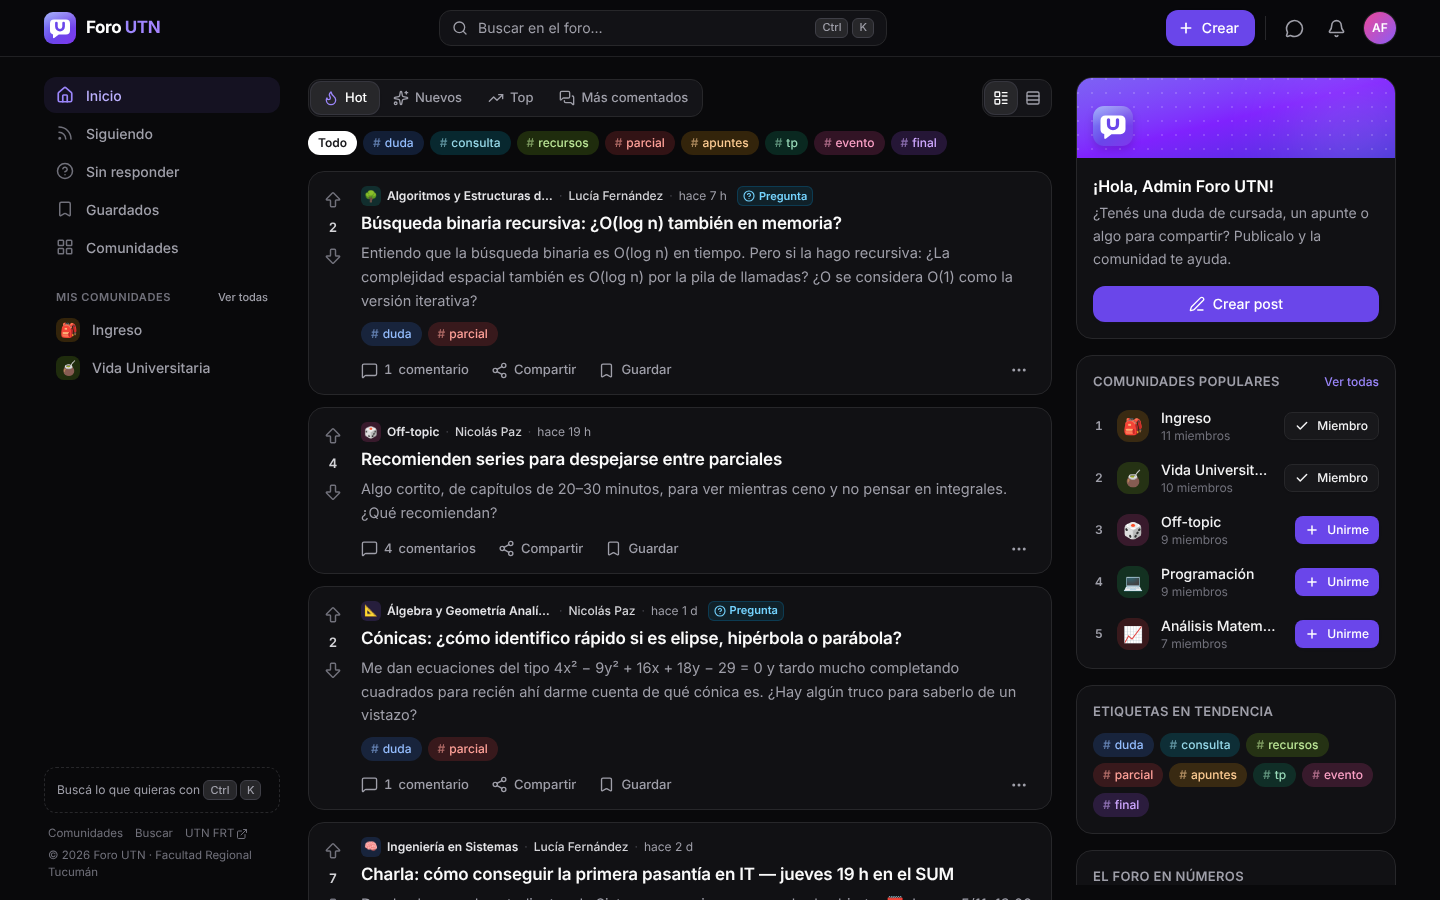
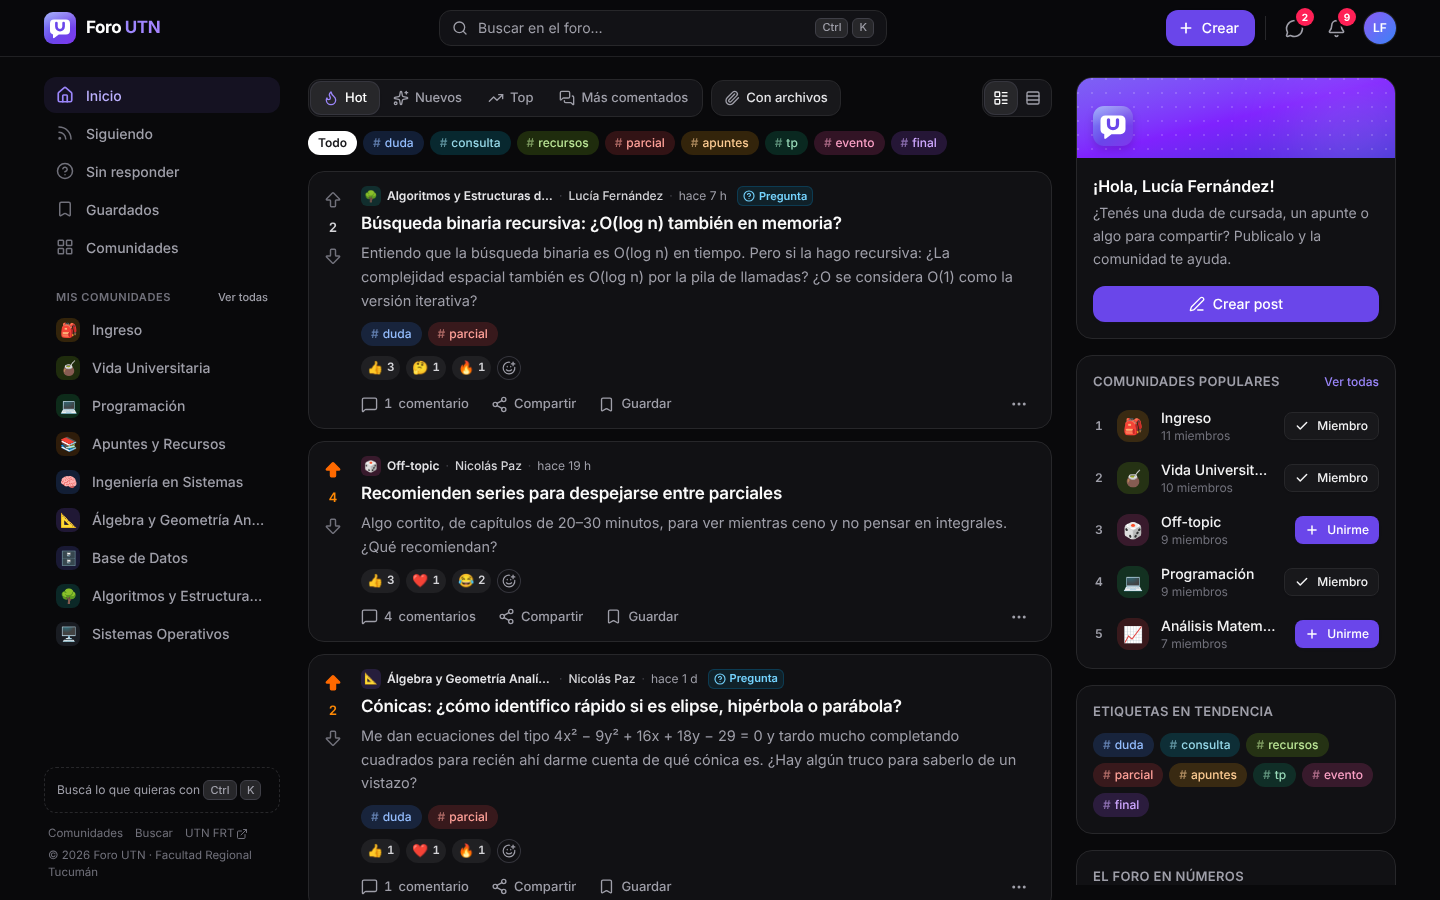
Foro v2.1: adjuntos, reacciones, borradores, Google, mails y PWA (front + integración)
- Front: subida de archivos con progreso (PDF, Office, imágenes, zip,
  código) en posts, comentarios y mensajes; reacciones con emojis;
  borradores con autoguardado y página /drafts; pestaña de avisos por
  mail; botón de Google; app instalable con service worker y modo offline.
- Integración probada en producción contra el back real: publicar con 4
  adjuntos desde un borrador, descarga con nombre UTF-8, vista previa de
  PDF, reacción, rechazo de un .exe renombrado a .pdf, adjunto en un
  mensaje directo, preferencias y service worker activo.
- Arreglos: el título de página ya no se pisa con las acciones en el
  celu; texto de avisos de moderación coherente con el backend.
- README: capturas nuevas y UPLOAD_QUOTA_MB_PER_DAY.

Claude-Session: https://claude.ai/code/session_0147TFC6T1ZEcghbz1df2zRB

diff --git a/web/src/pages/SubmitPage.tsx b/web/src/pages/SubmitPage.tsx
@@ -269,6 +269,7 @@ function DraftsDialog({ open, onOpenChange, currentId, onOpenDraft }: { open: bo
         error={q.isError ? q.error : null}
         onRetry={() => void q.refetch()}
         currentId={currentId}
+        compact
         onOpen={(d) => {
           onOpenChange(false);
           if (d.id !== currentId) onOpenDraft(d.id);
@@ -607,7 +608,8 @@ function SubmitEditor({
       ...(imageUrl ? { imageUrl } : {}),
       ...(tagIds.length ? { tagIds } : {}),
       ...(type === 'POLL' ? { poll: { options: options.map((o) => o.trim()).filter(Boolean), closesInDays } } : {}),
-      ...(uploads.ids.length ? { attachmentIds: uploads.ids } : {}),
+      // Con borrador mandamos la lista siempre: sin `attachmentIds` el server pasaría los del borrador.
+      ...(uploads.ids.length || draftIdRef.current ? { attachmentIds: uploads.ids } : {}),
       ...(draftIdRef.current ? { draftId: draftIdRef.current } : {}),
     };
     create.mutate(input, {
@@ -619,6 +621,13 @@ function SubmitEditor({
       },
       onError: (err) => {
         publishing.current = false;
+        // El borrador ya no existe (lo borraron en otra pestaña): publicamos sin él.
+        if (isApiError(err) && err.details?.draftId && input.draftId) {
+          draftIdRef.current = null;
+          setDraftId(null);
+          void submit();
+          return;
+        }
         if (isApiError(err) && err.details) {
           const mapped: Record<string, string> = {};
           for (const [k, v] of Object.entries(err.details))
@@ -677,7 +686,7 @@ function SubmitEditor({
     >
       <div className="mb-5 flex items-end justify-between gap-3">
         <div className="min-w-0">
-          <h1 className="text-2xl font-bold tracking-tight text-zinc-950 dark:text-white">{draftId ? 'Continuar borrador' : 'Crear post'}</h1>
+          <h1 className="text-2xl font-bold tracking-tight text-zinc-950 dark:text-white">{init.draftId && !init.restoredLocal ? 'Continuar borrador' : 'Crear post'}</h1>
           <p className="mt-0.5 text-sm text-zinc-500 dark:text-zinc-400">{typeMeta.hint}</p>
         </div>
         <Button variant="secondary" size="sm" onClick={() => setDraftsOpen(true)} className="shrink-0">
@@ -1011,14 +1020,19 @@ export default function SubmitPage() {
   const paramId = parseDraftParam(params.get('draft'));
   // `key` cambia solo cuando el usuario abre otro borrador (no cuando el autoguardado crea uno).
   const [session, setSession] = useState({ key: 0, draftId: paramId });
+  /** Borrador abierto en el editor (el inicial o el que creó el autoguardado). */
+  const activeId = useRef<number | null>(paramId);
 
+  // Cambio de ?draft= que no vino del autoguardado (atrás/adelante, link, diálogo) → otro borrador.
   useEffect(() => {
-    if (paramId !== session.draftId) setSession((s) => ({ key: s.key + 1, draftId: paramId }));
-  }, [paramId, session.draftId]);
+    if (paramId === activeId.current) return;
+    activeId.current = paramId;
+    setSession((s) => ({ key: s.key + 1, draftId: paramId }));
+  }, [paramId]);
 
   const onDraftCreated = useCallback(
     (id: number) => {
-      setSession((s) => ({ ...s, draftId: id }));
+      activeId.current = id;
       setParams(
         (prev) => {
           const next = new URLSearchParams(prev);
@@ -1035,6 +1049,12 @@ export default function SubmitPage() {
   const onOpenDraft = useCallback(
     (id: number | null) => {
       if (id == null) clearLocalDraft();
+      window.scrollTo({ top: 0 });
+      if (id === activeId.current) {
+        // Mismo id en la URL (p. ej. "empezar uno nuevo" sin haber guardado nada): remontar igual.
+        setSession((s) => ({ key: s.key + 1, draftId: id }));
+        return;
+      }
       setParams(
         (prev) => {
           const next = new URLSearchParams(prev);
@@ -1045,7 +1065,6 @@ export default function SubmitPage() {
         },
         { replace: false },
       );
-      window.scrollTo({ top: 0 });
     },
     [setParams],
   );

diff --git a/web/src/components/drafts/DraftList.tsx b/web/src/components/drafts/DraftList.tsx
@@ -26,7 +26,9 @@ function excerpt(d: Draft) {
   return '';
 }
 
-function DraftRow({ d, current, onOpen }: { d: Draft; current?: boolean; onOpen: (d: Draft) => void }) {
+const sep = <span aria-hidden className="text-zinc-300 dark:text-zinc-700">·</span>;
+
+function DraftRow({ d, current, onOpen, compact }: { d: Draft; current?: boolean; onOpen: (d: Draft) => void; compact?: boolean }) {
   const communities = useCommunities();
   const community = d.communityId != null ? communities.data?.find((c) => c.id === d.communityId) : undefined;
   const del = useDeleteDraft();
@@ -56,18 +58,22 @@ function DraftRow({ d, current, onOpen }: { d: Draft; current?: boolean; onOpen:
           ) : (
             <span className="italic">Sin comunidad</span>
           )}
-          <span aria-hidden className="text-zinc-300 dark:text-zinc-700">·</span>
-          <span>{POST_TYPE_LABEL[d.type]}</span>
+          <span className="inline-flex items-center gap-2 whitespace-nowrap">
+            {sep}
+            {POST_TYPE_LABEL[d.type]}
+          </span>
           {files > 0 && (
-            <>
-              <span aria-hidden className="text-zinc-300 dark:text-zinc-700">·</span>
+            <span className="inline-flex items-center gap-2 whitespace-nowrap" title={`${files} adjunto${files === 1 ? '' : 's'}`}>
+              {sep}
               <span className="inline-flex items-center gap-1">
                 <Paperclip className="size-3" /> {files}
               </span>
-            </>
+            </span>
           )}
-          <span aria-hidden className="text-zinc-300 dark:text-zinc-700">·</span>
-          <TimeAgo date={d.updatedAt} prefix="Editado " />
+          <span className="inline-flex basis-full items-center gap-2 whitespace-nowrap sm:basis-auto">
+            <span className="hidden sm:inline">{sep}</span>
+            <TimeAgo date={d.updatedAt} prefix="Editado " />
+          </span>
           {current && (
             <Badge tone="brand" className="ml-0.5">
               Editando ahora
@@ -76,7 +82,7 @@ function DraftRow({ d, current, onOpen }: { d: Draft; current?: boolean; onOpen:
         </div>
       </div>
       <div className="relative z-10 flex shrink-0 items-center gap-1 self-center">
-        {!current && (
+        {!current && !compact && (
           <Button size="sm" variant="secondary" onClick={() => onOpen(d)} className="hidden sm:inline-flex">
             <PenLine />
             Continuar
@@ -124,6 +130,7 @@ export function DraftList({
   currentId,
   onOpen,
   emptyAction,
+  compact,
 }: {
   drafts: Draft[] | undefined;
   loading?: boolean;
@@ -132,6 +139,8 @@ export function DraftList({
   currentId?: number | null;
   onOpen: (d: Draft) => void;
   emptyAction?: ReactNode;
+  /** Sin botón "Continuar" (la fila entera abre el borrador): para el diálogo. */
+  compact?: boolean;
 }) {
   if (loading) return <DraftListSkeleton />;
   if (error) return <ErrorState compact error={error} onRetry={onRetry} title="No pudimos cargar tus borradores" />;
@@ -149,7 +158,7 @@ export function DraftList({
   return (
     <ul className="divide-y divide-zinc-100 dark:divide-zinc-800">
       {drafts.map((d) => (
-        <DraftRow key={d.id} d={d} current={d.id === currentId} onOpen={onOpen} />
+        <DraftRow key={d.id} d={d} current={d.id === currentId} onOpen={onOpen} compact={compact} />
       ))}
     </ul>
   );

diff --git a/web/src/queries/reactions.ts b/web/src/queries/reactions.ts
@@ -34,6 +34,10 @@ function writeReactions(qc: QueryClient, target: ReactionTarget, reactions: Reac
 
 const basePath = (t: ReactionTarget) => (t.type === 'post' ? `/posts/${t.id}` : `/comments/${t.id}`);
 
+/** Toggles en vuelo por contenido: solo la última respuesta pisa el estado optimista (sin parpadeos). */
+const pending = new Map<string, number>();
+const targetKey = (t: ReactionTarget) => `${t.type}:${t.id}`;
+
 /** Toggle optimista: se refleja en el feed, el detalle, la búsqueda y el árbol de comentarios. */
 export function useToggleReaction() {
   const qc = useQueryClient();
@@ -41,16 +45,25 @@ export function useToggleReaction() {
     mutationFn: ({ target, emoji }: { target: ReactionTarget; emoji: ReactionEmoji }) =>
       api.post<{ reactions: ReactionSummary[] }>(`${basePath(target)}/reactions`, { emoji }),
     onMutate: ({ target, emoji }) => {
+      pending.set(targetKey(target), (pending.get(targetKey(target)) ?? 0) + 1);
       const prev = readReactions(qc, target);
       if (prev) writeReactions(qc, target, toggleReactionList(prev, emoji));
       return prev;
     },
-    onError: (_e, { target }, prev) => {
-      if (prev) writeReactions(qc, target, prev);
+    onError: (_e, { target, emoji }) => {
+      // Deshacer solo este toggle (otros pueden seguir en vuelo).
+      const current = readReactions(qc, target);
+      if (current) writeReactions(qc, target, toggleReactionList(current, emoji));
     },
     onSuccess: ({ reactions }, { target }) => {
-      if (Array.isArray(reactions)) writeReactions(qc, target, reactions);
+      if (Array.isArray(reactions) && (pending.get(targetKey(target)) ?? 0) <= 1) writeReactions(qc, target, reactions);
       qc.invalidateQueries({ queryKey: ['reaction-users', target.type, target.id] });
+    },
+    onSettled: (_d, _e, { target }) => {
+      const k = targetKey(target);
+      const n = (pending.get(k) ?? 1) - 1;
+      if (n <= 0) pending.delete(k);
+      else pending.set(k, n);
     },
   });
 }

diff --git a/web/src/queries/preferences.ts b/web/src/queries/preferences.ts
@@ -1,5 +1,6 @@
 import { useMutation, useQuery, useQueryClient } from '@tanstack/react-query';
-import { api } from '@/lib/api';
+import { toast } from 'sonner';
+import { api, isApiError } from '@/lib/api';
 import { patchMe } from '@/lib/cache';
 import type { Preferences } from '@/lib/types';
 
@@ -22,20 +23,30 @@ export function usePreferences(initial?: Preferences) {
   });
 }
 
-/** Guardado instantáneo y optimista; si falla se revierte (el toast lo muestra el handler global). */
+/** Guardado instantáneo y optimista; si falla se revierte y avisa con un toast. */
 export function useUpdatePreferences() {
   const qc = useQueryClient();
   return useMutation({
     mutationFn: (patch: Partial<Preferences>) => api.patch<{ preferences: Preferences }>('/users/me/preferences', patch),
-    onMutate: async (patch) => {
-      await qc.cancelQueries({ queryKey: preferencesKey });
+    meta: { skipGlobalError: true },
+    onMutate: (patch) => {
+      // Sincrónico: el switch cambia en el mismo frame del click.
+      void qc.cancelQueries({ queryKey: preferencesKey });
       const prev = qc.getQueryData<{ preferences: Preferences }>(preferencesKey);
       const base = prev?.preferences ?? DEFAULT_PREFERENCES;
       qc.setQueryData(preferencesKey, { preferences: { ...base, ...patch } });
       return prev;
     },
-    onError: (_e, _patch, prev) => {
+    onError: (err, _patch, prev) => {
       if (prev) qc.setQueryData(preferencesKey, prev);
+      if (isApiError(err) && err.status === 401) {
+        qc.invalidateQueries({ queryKey: ['me'] });
+        return;
+      }
+      toast.error('No se pudo guardar la preferencia', {
+        id: 'pref-error',
+        description: isApiError(err) && err.code === 'NETWORK' ? err.message : 'Volvimos al valor anterior. Probá de nuevo.',
+      });
     },
     onSuccess: ({ preferences }) => {
       if (!preferences) return;

diff --git a/web/src/components/attachments/AttachmentList.tsx b/web/src/components/attachments/AttachmentList.tsx
@@ -80,7 +80,7 @@ function FileRow({ a, variant, mine }: { a: Attachment; variant: Variant; mine?:
     return (
       <div
         className={cn(
-          'flex w-full max-w-[17rem] items-center gap-2.5 rounded-2xl p-2 pr-1.5 ring-1 ring-inset',
+          'flex w-full min-w-0 max-w-[17rem] items-center gap-2.5 rounded-2xl p-2 pr-1.5 ring-1 ring-inset',
           mine
             ? 'bg-brand-50 ring-brand-200/80 dark:bg-brand-500/15 dark:ring-brand-500/30'
             : 'bg-white ring-zinc-200 dark:bg-zinc-800/80 dark:ring-zinc-700/80',
@@ -111,7 +111,7 @@ function FileRow({ a, variant, mine }: { a: Attachment; variant: Variant; mine?:
   return (
     <li
       className={cn(
-        'group/file flex items-center gap-3 rounded-xl border border-zinc-200 bg-white transition-colors hover:border-zinc-300 dark:border-zinc-800 dark:bg-zinc-900/60 dark:hover:border-zinc-700',
+        'group/file flex min-w-0 items-center gap-3 rounded-xl border border-zinc-200 bg-white transition-colors hover:border-zinc-300 dark:border-zinc-800 dark:bg-zinc-900/60 dark:hover:border-zinc-700',
         compact ? 'p-2 pr-2' : 'p-2.5 pr-2.5',
       )}
     >
@@ -181,7 +181,7 @@ export function AttachmentList({
     <div className={cn('space-y-2.5', className)}>
       {images.length > 0 && <ImageGrid images={images} variant={variant} />}
       {files.length > 0 && (
-        <ul className={cn('grid gap-2', variant === 'compact' ? 'max-w-xl' : 'max-w-2xl')}>
+        <ul className={cn('grid grid-cols-1 gap-2', variant === 'compact' ? 'max-w-xl' : 'max-w-2xl')}>
           {files.map((a) => (
             <FileRow key={a.id} a={a} variant={variant} />
           ))}

diff --git a/web/src/pages/SettingsPage.tsx b/web/src/pages/SettingsPage.tsx
@@ -499,14 +499,7 @@ function NotificationsTab({ me }: { me: Me }) {
                     checked={prefs[r.key]}
                     aria-labelledby={`${id}-label`}
                     aria-describedby={`${id}-desc`}
-                    onCheckedChange={(checked) =>
-                      update.mutate(
-                        { [r.key]: checked },
-                        {
-                          onError: () => toast.error('No se pudo guardar la preferencia', { id: 'pref-error', description: 'Volvimos al valor anterior. Probá de nuevo.' }),
-                        },
-                      )
-                    }
+                    onCheckedChange={(checked) => update.mutate({ [r.key]: checked })}
                   />
                 ) : (
                   <Skeleton className="h-6 w-11 rounded-full" />
@@ -519,7 +512,7 @@ function NotificationsTab({ me }: { me: Me }) {
 
       <p className="flex items-start gap-2 px-1 text-xs leading-relaxed text-zinc-500 dark:text-zinc-400">
         <Bell className="mt-0.5 size-3.5 shrink-0" />
-        Los avisos de moderación y el mail de bienvenida se mandan siempre. Las notificaciones dentro del foro no cambian con estas opciones.
+        El mail de bienvenida se manda siempre; los avisos de moderación llegan solo dentro del foro. Las notificaciones dentro del foro no cambian con estas opciones.
       </p>
     </div>
   );

diff --git a/web/src/pages/MessagesPage.tsx b/web/src/pages/MessagesPage.tsx
@@ -279,8 +279,16 @@ function ConversationView({ conversation, onBack }: { conversation: Conversation
     ta.style.height = `${Math.min(ta.scrollHeight, 140)}px`;
   }, [text]);
 
+  /** ¿El usuario está mirando el final? (para seguir abajo mientras cargan las imágenes) */
+  const atBottom = useRef(true);
+  const onMediaLoad = () => {
+    const el = scrollRef.current;
+    if (el && atBottom.current) el.scrollTop = el.scrollHeight;
+  };
+
   const onScroll = () => {
     const el = scrollRef.current;
+    if (el) atBottom.current = el.scrollHeight - el.scrollTop - el.clientHeight < 120;
     if (!el || !q.hasNextPage || q.isFetchingNextPage) return;
     if (el.scrollTop < 80) {
       prevHeight.current = el.scrollHeight;
@@ -325,7 +333,7 @@ function ConversationView({ conversation, onBack }: { conversation: Conversation
         </Link>
       </div>
 
-      <div ref={scrollRef} onScroll={onScroll} className="min-h-0 flex-1 overflow-y-auto px-3 py-4 sm:px-5">
+      <div ref={scrollRef} onScroll={onScroll} onLoadCapture={onMediaLoad} className="min-h-0 flex-1 overflow-y-auto px-3 py-4 sm:px-5">
         {q.isFetchingNextPage && (
           <div className="flex justify-center py-2">
             <Spinner className="size-4 text-zinc-400" />

diff --git a/web/src/components/posts/PostFeed.tsx b/web/src/components/posts/PostFeed.tsx
@@ -162,7 +162,7 @@ export function FilesToggle({ active, onChange, className }: { active: boolean; 
         aria-pressed={active}
         onClick={() => onChange(!active)}
         className={cn(
-          'inline-flex h-9 shrink-0 items-center gap-1.5 rounded-xl border px-3 text-[13px] font-medium shadow-xs transition-colors',
+          'inline-flex h-9 shrink-0 items-center gap-1.5 rounded-xl border px-2.5 text-[13px] font-medium shadow-xs transition-colors sm:px-3',
           className,
           active
             ? 'border-brand-300 bg-brand-50 text-brand-700 hover:bg-brand-100 dark:border-brand-500/40 dark:bg-brand-500/15 dark:text-brand-200 dark:hover:bg-brand-500/25'
@@ -170,7 +170,8 @@ export function FilesToggle({ active, onChange, className }: { active: boolean; 
         )}
       >
         <Paperclip className={cn('size-4', active ? 'text-brand-600 dark:text-brand-300' : 'text-zinc-400')} />
-        Con archivos
+        <span className="hidden sm:inline">Con archivos</span>
+        <span className="sm:hidden">Archivos</span>
         {active && <X className="-mr-0.5 size-3.5 opacity-70" />}
       </button>
     </Tooltip>

diff --git a/web/src/components/attachments/AttachmentPicker.tsx b/web/src/components/attachments/AttachmentPicker.tsx
@@ -138,7 +138,7 @@ function UploadCard({ item, onRemove, onRetry, dense }: { item: UploadItem; onRe
 export function UploadList({ uploads, dense, className, columns = 2 }: { uploads: AttachmentUploads; dense?: boolean; className?: string; columns?: 1 | 2 }) {
   if (uploads.items.length === 0) return null;
   return (
-    <ul aria-label="Archivos adjuntos" className={cn('grid gap-2', columns === 2 && 'sm:grid-cols-2', className)}>
+    <ul aria-label="Archivos adjuntos" className={cn('grid grid-cols-1 gap-2', columns === 2 && 'sm:grid-cols-2', className)}>
       {uploads.items.map((it) => (
         <UploadCard key={it.key} item={it} dense={dense} onRemove={() => uploads.remove(it.key)} onRetry={() => uploads.retry(it.key)} />
       ))}

diff --git a/web/src/components/layout/AppShell.tsx b/web/src/components/layout/AppShell.tsx
@@ -95,7 +95,8 @@ export function PageHeader({
   return (
     <div className={cn('mb-4 flex flex-wrap items-center gap-x-4 gap-y-3', className)}>
       {icon}
-      <div className="min-w-0 flex-1">
+      {/* basis-56: en pantallas angostas las acciones bajan de renglón en vez de pisar el título */}
+      <div className="min-w-0 flex-1 basis-56">
         <h1 className="text-xl font-bold tracking-tight text-zinc-950 sm:text-2xl dark:text-white">{title}</h1>
         {description && <p className="mt-0.5 text-sm text-zinc-500 dark:text-zinc-400">{description}</p>}
       </div>

diff --git a/README.md b/README.md
@@ -21,8 +21,10 @@ Consultas de parcial · apuntes · encuestas · mensajes · todo en un solo luga
 <div align="center">
   <img src="docs/screenshots/home.png" alt="Inicio" width="900">
   <br><br>
-  <img src="docs/screenshots/post.png" alt="Un post con comentarios" width="440">
+  <img src="docs/screenshots/attachments.png" alt="Post con un PDF adjunto y reacciones" width="440">
   <img src="docs/screenshots/home-dark.png" alt="Modo oscuro" width="440">
+  <br><br>
+  <img src="docs/screenshots/post.png" alt="Un post con comentarios" width="440">
   <br><br>
   <img src="docs/screenshots/messages.png" alt="Mensajes directos" width="440">
   <img src="docs/screenshots/mod.png" alt="Panel de moderación" width="440">
@@ -105,6 +107,7 @@ si corre detrás de un proxy, `TRUST_PROXY=1`.
 | `SMTP_*` | Opcional. Mails de recuperación, bienvenida y avisos. Sin SMTP se imprimen en la consola |
 | `GOOGLE_CLIENT_ID` / `GOOGLE_CLIENT_SECRET` | Opcional. Activa "Continuar con Google" (ver abajo) |
 | `MAX_UPLOAD_MB` | Opcional. Tamaño máximo por archivo adjunto (default `25`) |
+| `UPLOAD_QUOTA_MB_PER_DAY` | Opcional. Cuánto puede subir cada usuario por día (default `200`) |
 | `TRUST_PROXY` | Opcional. `1` detrás de Render / Railway / Nginx |
 | `COOKIE_SECURE` | Opcional. En producción la sesión exige HTTPS; poné `false` si lo servís por HTTP (red local) |
 
